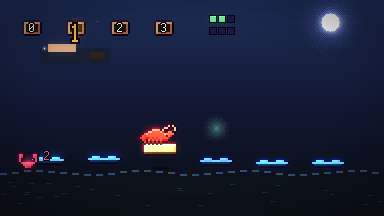
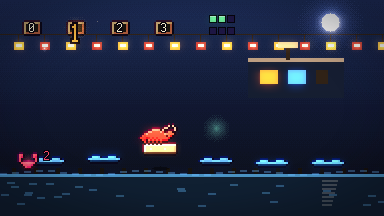
feat: make a blank plank spend the magnet on 虾数
Stage 2 and stage 4 hide one plank no number covers. Suggest spends
the magnet there, and stepping onto it falls. The four scenes also
gain lanterns, canyon teeth, clock chains, and gorge water.

diff --git a/web/src/games/claw-count.ts b/web/src/games/claw-count.ts
@@ -43,16 +43,27 @@ function bridge(): HTMLCanvasElement {
   const c = makeCanvas(VW, VH);
   const g = ctx2d(c);
   sky(g, ['#243860', '#141c38', '#0c1018'], 0, VH, 10);
-  rect(g, 40, 48, 70, 16, '#1a2438');
-  rect(g, 48, 44, 28, 8, '#c4a888');
-  rect(g, 90, 52, 14, 6, '#3a2818');
-  for (let x = 12; x < VW; x += 22) {
-    rect(g, x, 168, 3, 48, '#1a140c');
-    rect(g, x - 2, 206, 8, 3, '#3a2818');
+  rect(g, 0, 34, VW, 1, '#3a2818');
+  for (let x = 18; x < VW; x += 26) {
+    rect(g, x, 34, 1, 8, '#3a2818');
+    rect(g, x - 4, 42, 10, 8, x % 52 === 18 ? '#ffc24a' : '#c4483a');
+    rect(g, x - 2, 44, 6, 3, '#fff6dc');
   }
-  rect(g, 0, 176, VW, 40, '#101820');
+  rect(g, 248, 58, 96, 40, '#1a2438');
+  rect(g, 248, 58, 96, 4, '#c4a888');
+  rect(g, 260, 70, 18, 14, '#ffc24a');
+  rect(g, 288, 70, 18, 14, '#7ec8ff');
+  rect(g, 316, 70, 12, 14, '#3a2818');
+  rect(g, 286, 46, 4, 14, '#3a2818');
+  rect(g, 278, 42, 20, 6, '#e8d0a0');
+  for (let x = 12; x < VW; x += 22) {
+    rect(g, x, 168, 4, 48, '#1a140c');
+    rect(g, x - 3, 206, 10, 4, '#3a2818');
+  }
+  rect(g, 0, 174, VW, 42, '#14283c');
+  rect(g, 0, 174, VW, 3, '#5aa0c8');
   for (let i = 0; i < 28; i += 1) {
-    rect(g, hash01(i, 6) * VW, 182 + hash01(i, 7) * 24, 5, 1, '#243848');
+    rect(g, hash01(i, 6) * VW, 182 + hash01(i, 7) * 24, 8, 2, '#3a6888');
   }
   night = c;
   return c;
@@ -83,6 +94,9 @@ function createScene(): GameScene<CountState> {
       g.drawImage(bridge(), 0, 0);
       stars(g, t, 2, 6, 52);
       moon(g, 330, 22, 9, '#fff6dc', '#9eb4ff');
+      for (let i = 0; i < 7; i += 1) {
+        rect(g, 322, 180 + i * 4, 16 - i, 2, withAlpha('#fff6dc', 0.28));
+      }
       for (let x = 0; x < VW; x += 12) {
         const y = 172 + Math.round(Math.sin(t * 1.5 + x * 0.06) * 2);
         rect(g, x, y, 7, 2, withAlpha('#7ec8ff', 0.4));
@@ -91,12 +105,14 @@ function createScene(): GameScene<CountState> {
       const sunk = buildSprite(SUNK);
       state.tiles.forEach((tile, index) => {
         const x = 28 + index * 56;
-        const on = tile.includes(state.count);
+        const blank = tile.length === 0;
+        const on = !blank && tile.includes(state.count);
         const here = index === state.pos;
         const bob = on ? 0 : 10 + Math.round(Math.sin(t * 2 + index) * 2);
         blit(g, on ? plank : sunk, x + 20, 156 + bob, { scale: 2, anchor: 'bc' });
+        if (blank) blit(g, buildSprite(MAGNET), x + 20, 128, { scale: 1, anchor: 'c' });
         if (here) glow(g, x + 20, 128, 16, '#7ee0a0', 0.5);
-        const label = say(f, tile.join('/'));
+        const label = say(f, blank ? '空' : tile.join('/'));
         if (label) {
           drawText(g, label, x + 20, 112, {
             color: on ? '#fff4d6' : '#6a6058',

diff --git a/games/claw-count/src/engine.ts b/games/claw-count/src/engine.ts
@@ -54,7 +54,14 @@ function rules(difficulty: Difficulty): {
   return { levels: 4, budget: 3, magnets: 2, fallLimit: 3 };
 }
 
-function makePier(rng: Rng): number[][] {
+/** One blank plank on the named stages. No number covers it, so only a magnet crosses. */
+function orphanOn(level: number, difficulty: Difficulty): boolean {
+  if (difficulty === 'easy') return level === 2;
+  if (difficulty === 'hard') return level === 3;
+  return level === 2 || level === 4;
+}
+
+function makePier(rng: Rng, orphan: boolean): number[][] {
   const tiles: number[][] = [];
   for (let i = 0; i < 6; i += 1) {
     const a = rng.int(0, 3);
@@ -65,6 +72,7 @@ function makePier(rng: Rng): number[][] {
   }
   const first = tiles[0] ?? [0, 1];
   if (!first.includes(0)) tiles[0] = [0, first[0] ?? 1].sort((x, y) => x - y);
+  if (orphan) tiles[2 + rng.int(0, 3)] = [];
   return tiles;
 }
 
@@ -93,6 +101,7 @@ function cover(state: CountState, count: number): number {
 export function suggest(state: CountState): string {
   const tile = nextTile(state);
   if (!tile) return 'step';
+  if (tile.length === 0) return state.magnets > 0 ? 'magnet' : 'step';
   if (safe(tile, state.count)) return 'step';
   if (state.budget > 0) {
     let best = tile[0] ?? 0;
@@ -121,7 +130,7 @@ export function createRun(options: { seed: number; difficulty?: string }): Count
     rng: rng.serialize(),
     level: 1,
     levels: rule.levels,
-    tiles: makePier(rng),
+    tiles: makePier(rng, orphanOn(1, difficulty)),
     pos: 0,
     count: 0,
     budget: rule.budget,
@@ -138,7 +147,8 @@ export function createRun(options: { seed: number; difficulty?: string }): Count
 }
 
 function nums(tile: number[] | null): string {
-  return tile ? tile.join('/') : '无';
+  if (!tile || tile.length === 0) return '空';
+  return tile.join('/');
 }
 
 export function statusOf(state: CountState): StatusView {
@@ -240,7 +250,7 @@ function clearLevel(state: CountState, rng: Rng, log: string[]): void {
     return;
   }
   state.level += 1;
-  state.tiles = makePier(rng);
+  state.tiles = makePier(rng, orphanOn(state.level, state.difficulty));
   state.pos = 0;
   state.count = 0;
   state.budget = state.budgetMax;

diff --git a/web/src/games/claw-clock.ts b/web/src/games/claw-clock.ts
@@ -44,6 +44,14 @@ function tower(): HTMLCanvasElement {
     rect(g, hash01(i, 2) * 70, 20 + hash01(i, 3) * 160, 3, 3, '#3a2418');
     rect(g, 300 + hash01(i, 4) * 70, 20 + hash01(i, 5) * 160, 3, 3, '#3a2418');
   }
+  for (let x = 70; x <= 300; x += 46) {
+    rect(g, x, 0, 2, 28, '#6a4030');
+    rect(g, x - 3, 28, 8, 4, '#c4a060');
+  }
+  rect(g, 40, 148, 304, 8, '#2a1810');
+  rect(g, 40, 148, 304, 2, '#6a4030');
+  disc(g, 48, 108, 22, '#2a1810');
+  disc(g, 336, 108, 22, '#2a1810');
   chamber = c;
   return c;
 }
@@ -87,6 +95,12 @@ function createScene(): GameScene<ClockState> {
         const sprite = tokenSprite(token);
         if (sprite) blit(g, sprite, x, y + bob, { scale: token === 'you' ? 1 : 2, anchor: 'c' });
         else disc(g, x, y, 4, '#2a2430');
+      });
+      state.ring.forEach((_token, index) => {
+        const angle = (index / 8) * Math.PI * 2 - Math.PI / 2;
+        const x = 192 + Math.round(Math.cos(angle) * 74);
+        const y = 100 + Math.round(Math.sin(angle) * 74);
+        drawText(g, String(index + 1), x, y - 4, { color: '#e8d0a0', align: 'center' });
       });
       const hand = (state.hand / 8) * Math.PI * 2 - Math.PI / 2;
       for (let r = 8; r <= 40; r += 4) {

diff --git a/web/src/games/claw-mask.ts b/web/src/games/claw-mask.ts
@@ -27,14 +27,23 @@ function walls(): HTMLCanvasElement {
   const c = makeCanvas(VW, VH);
   const g = ctx2d(c);
   sky(g, ['#2a1848', '#160c28', '#0c0814'], 0, VH, 8);
-  rect(g, 0, 0, 22, VH, '#140c20');
-  rect(g, VW - 22, 0, 22, VH, '#140c20');
-  for (let y = 8; y < VH; y += 14) {
-    rect(g, 2, y, 14, 8, hash01(y, 1) > 0.5 ? '#3a2860' : '#2a1848');
-    rect(g, VW - 16, y + 6, 14, 8, '#2a1848');
-    if (y % 28 === 8) rect(g, 6, y + 2, 4, 4, '#c49aff');
+  rect(g, 0, 0, 40, VH, '#140c20');
+  rect(g, VW - 40, 0, 40, VH, '#100818');
+  for (let y = 4; y < VH; y += 12) {
+    const w = 18 + ((y * 3) % 22);
+    rect(g, 0, y, w, 8, hash01(y, 1) > 0.5 ? '#3a2860' : '#2a1848');
+    rect(g, VW - w, y + 4, w, 8, '#241838');
+    rect(g, w - 4, y + 2, 6, 3, '#c49aff');
+    rect(g, VW - w, y + 6, 6, 3, '#7ec8ff');
   }
-  rect(g, 22, 158, VW - 44, 58, '#0c1820');
+  for (let x = 48; x < VW - 48; x += 16) {
+    const h = 6 + (x % 20);
+    rect(g, x, 0, 6, h, '#2a1848');
+    rect(g, x + 1, h, 4, 5, '#c49aff');
+  }
+  rect(g, 40, 150, VW - 80, 10, '#1a2838');
+  rect(g, 40, 160, VW - 80, 56, '#0c2030');
+  rect(g, 40, 160, VW - 80, 2, '#3a6888');
   canyon = c;
   return c;
 }

diff --git a/games/claw-count/tests/engine.test.ts b/games/claw-count/tests/engine.test.ts
@@ -38,6 +38,29 @@ describe('claw-count engine', () => {
     expect(state.pos).toBe(0);
   });
 
+  it('crosses a blank plank only with a magnet', () => {
+    const opened = createRun({ seed: 5 });
+    expect(opened.tiles.every((tile) => tile.length > 0)).toBe(true);
+    const state = createRun({ seed: 5 });
+    while (state.level < 2 && state.outcome === 'ongoing') act(state, suggest(state));
+    expect(state.level).toBe(2);
+    expect(state.tiles.filter((tile) => tile.length === 0)).toHaveLength(1);
+    const index = state.tiles.findIndex((tile) => tile.length === 0);
+    while (state.pos < index && state.outcome === 'ongoing') act(state, suggest(state));
+    expect(state.pos).toBe(index);
+    expect(suggest(state)).toBe('magnet');
+    const before = state.magnets;
+    act(state, 'step');
+    expect(state.falls).toBe(1);
+    state.tiles = [[]];
+    state.pos = 0;
+    state.falls = 0;
+    state.magnets = before;
+    act(state, 'magnet');
+    expect(state.magnets).toBe(before - 1);
+    expect(state.falls).toBe(0);
+  });
+
   it('spends a magnet to cross an unsafe plank', () => {
     const state = createRun({ seed: 2 });
     state.tiles = [[2, 3]];

diff --git a/web/src/games/claw-flip.ts b/web/src/games/claw-flip.ts
@@ -41,13 +41,19 @@ function cliffs(): HTMLCanvasElement {
   const c = makeCanvas(VW, VH);
   const g = ctx2d(c);
   sky(g, ['#1a3830', '#0c2018', '#081410'], 0, VH, 8);
-  for (let y = 30; y < 150; y += 10) {
-    rect(g, 0, y, 16 + (y % 20), 8, '#1a3028');
-    rect(g, VW - 20 - (y % 16), y + 4, 24, 8, '#143028');
+  for (let y = 0; y < 170; y += 8) {
+    const w = 28 + ((y * 5) % 26);
+    rect(g, 0, y, w, 6, y % 16 === 0 ? '#245040' : '#1a3028');
+    rect(g, VW - w, y + 3, w, 6, '#143028');
+    if (y % 24 === 0) {
+      rect(g, w - 2, y, 2, 16, '#3a6848');
+      rect(g, VW - w, y + 4, 2, 14, '#2a5840');
+    }
   }
-  rect(g, 0, 168, VW, 48, '#0a1814');
-  for (let i = 0; i < 20; i += 1) {
-    rect(g, hash01(i, 3) * VW, 176 + hash01(i, 4) * 24, 8, 1, withAlpha('#7ec8ff', 0.25));
+  rect(g, 0, 156, VW, 60, '#0a1814');
+  rect(g, 0, 156, VW, 4, '#1a4060');
+  for (let i = 0; i < 24; i += 1) {
+    rect(g, hash01(i, 3) * VW, 164 + hash01(i, 4) * 40, 10, 2, withAlpha('#7ec8ff', 0.35));
   }
   gorge = c;
   return c;

diff --git a/games/claw-count/README.md b/games/claw-count/README.md
@@ -2,7 +2,7 @@
 
 `claw-count`
 
-桥面每格只在两个数字下存在。改数字的次数很少，所以要选一个能连着走最远的数字。磁铁可以硬走过一块对不上的板。坠落会回到段首，并记一次坠落。
+桥面每格只在两个数字下存在。改数字的次数很少，所以要选一个能连着走最远的数字。普通难度的第 2 段和第 4 段各有一格空白，任何数字都走不过，只能花磁铁。磁铁也可以硬走过一块对不上的板。坠落会回到段首，并记一次坠落。
 
 人在网页里玩。Agent 通过同一个页面的 Web MCP（页内或远程 relay）玩。引擎是确定性的：同一 seed、同一动作序列、同一版本，结果相同。
 

diff --git a/CHANGELOG.md b/CHANGELOG.md
@@ -10,6 +10,8 @@
 - Rebuilt the scenes for `虾印`, `虾熔`, `虾网`, and `虾节`: a night ferry,
   a tide well of shells, a harbor net, and a ring. Each has its own props,
   idle motion, and hit feedback.
+- `虾数` now hides one blank plank on stage 2 and stage 4. No number
+  covers it, so the magnet is the only crossing. Stepping onto it falls.
 - Rebuilt the scenes for `虾数`, `虾罩`, `虾钟`, and `虾拨`: a counted pier
   with sinking planks and a magnet, a two-stratum canyon with a brass visor,
   a geared clock chamber, and a spike gorge with a lever. Idle motion, HUD

diff --git a/docs/plans/2026-11-14-jam-art-path.md b/docs/plans/2026-11-14-jam-art-path.md
@@ -10,6 +10,8 @@ net, and ring rebuild is a separate pull request.
 
 ## Each world
 
+- Count engine: stage 2 and stage 4 (normal) each hide one blank plank.
+  No number covers it. Suggest spends the magnet there; stepping falls.
 - Count: a night pier with posts and a far hull. Planks and sunken gaps are
   sprites. Dials show 0–3. The magnet glows while any remain. A fall splashes.
 - Mask: a canyon with an ink stratum and a tide stratum. A brass visor slides.
